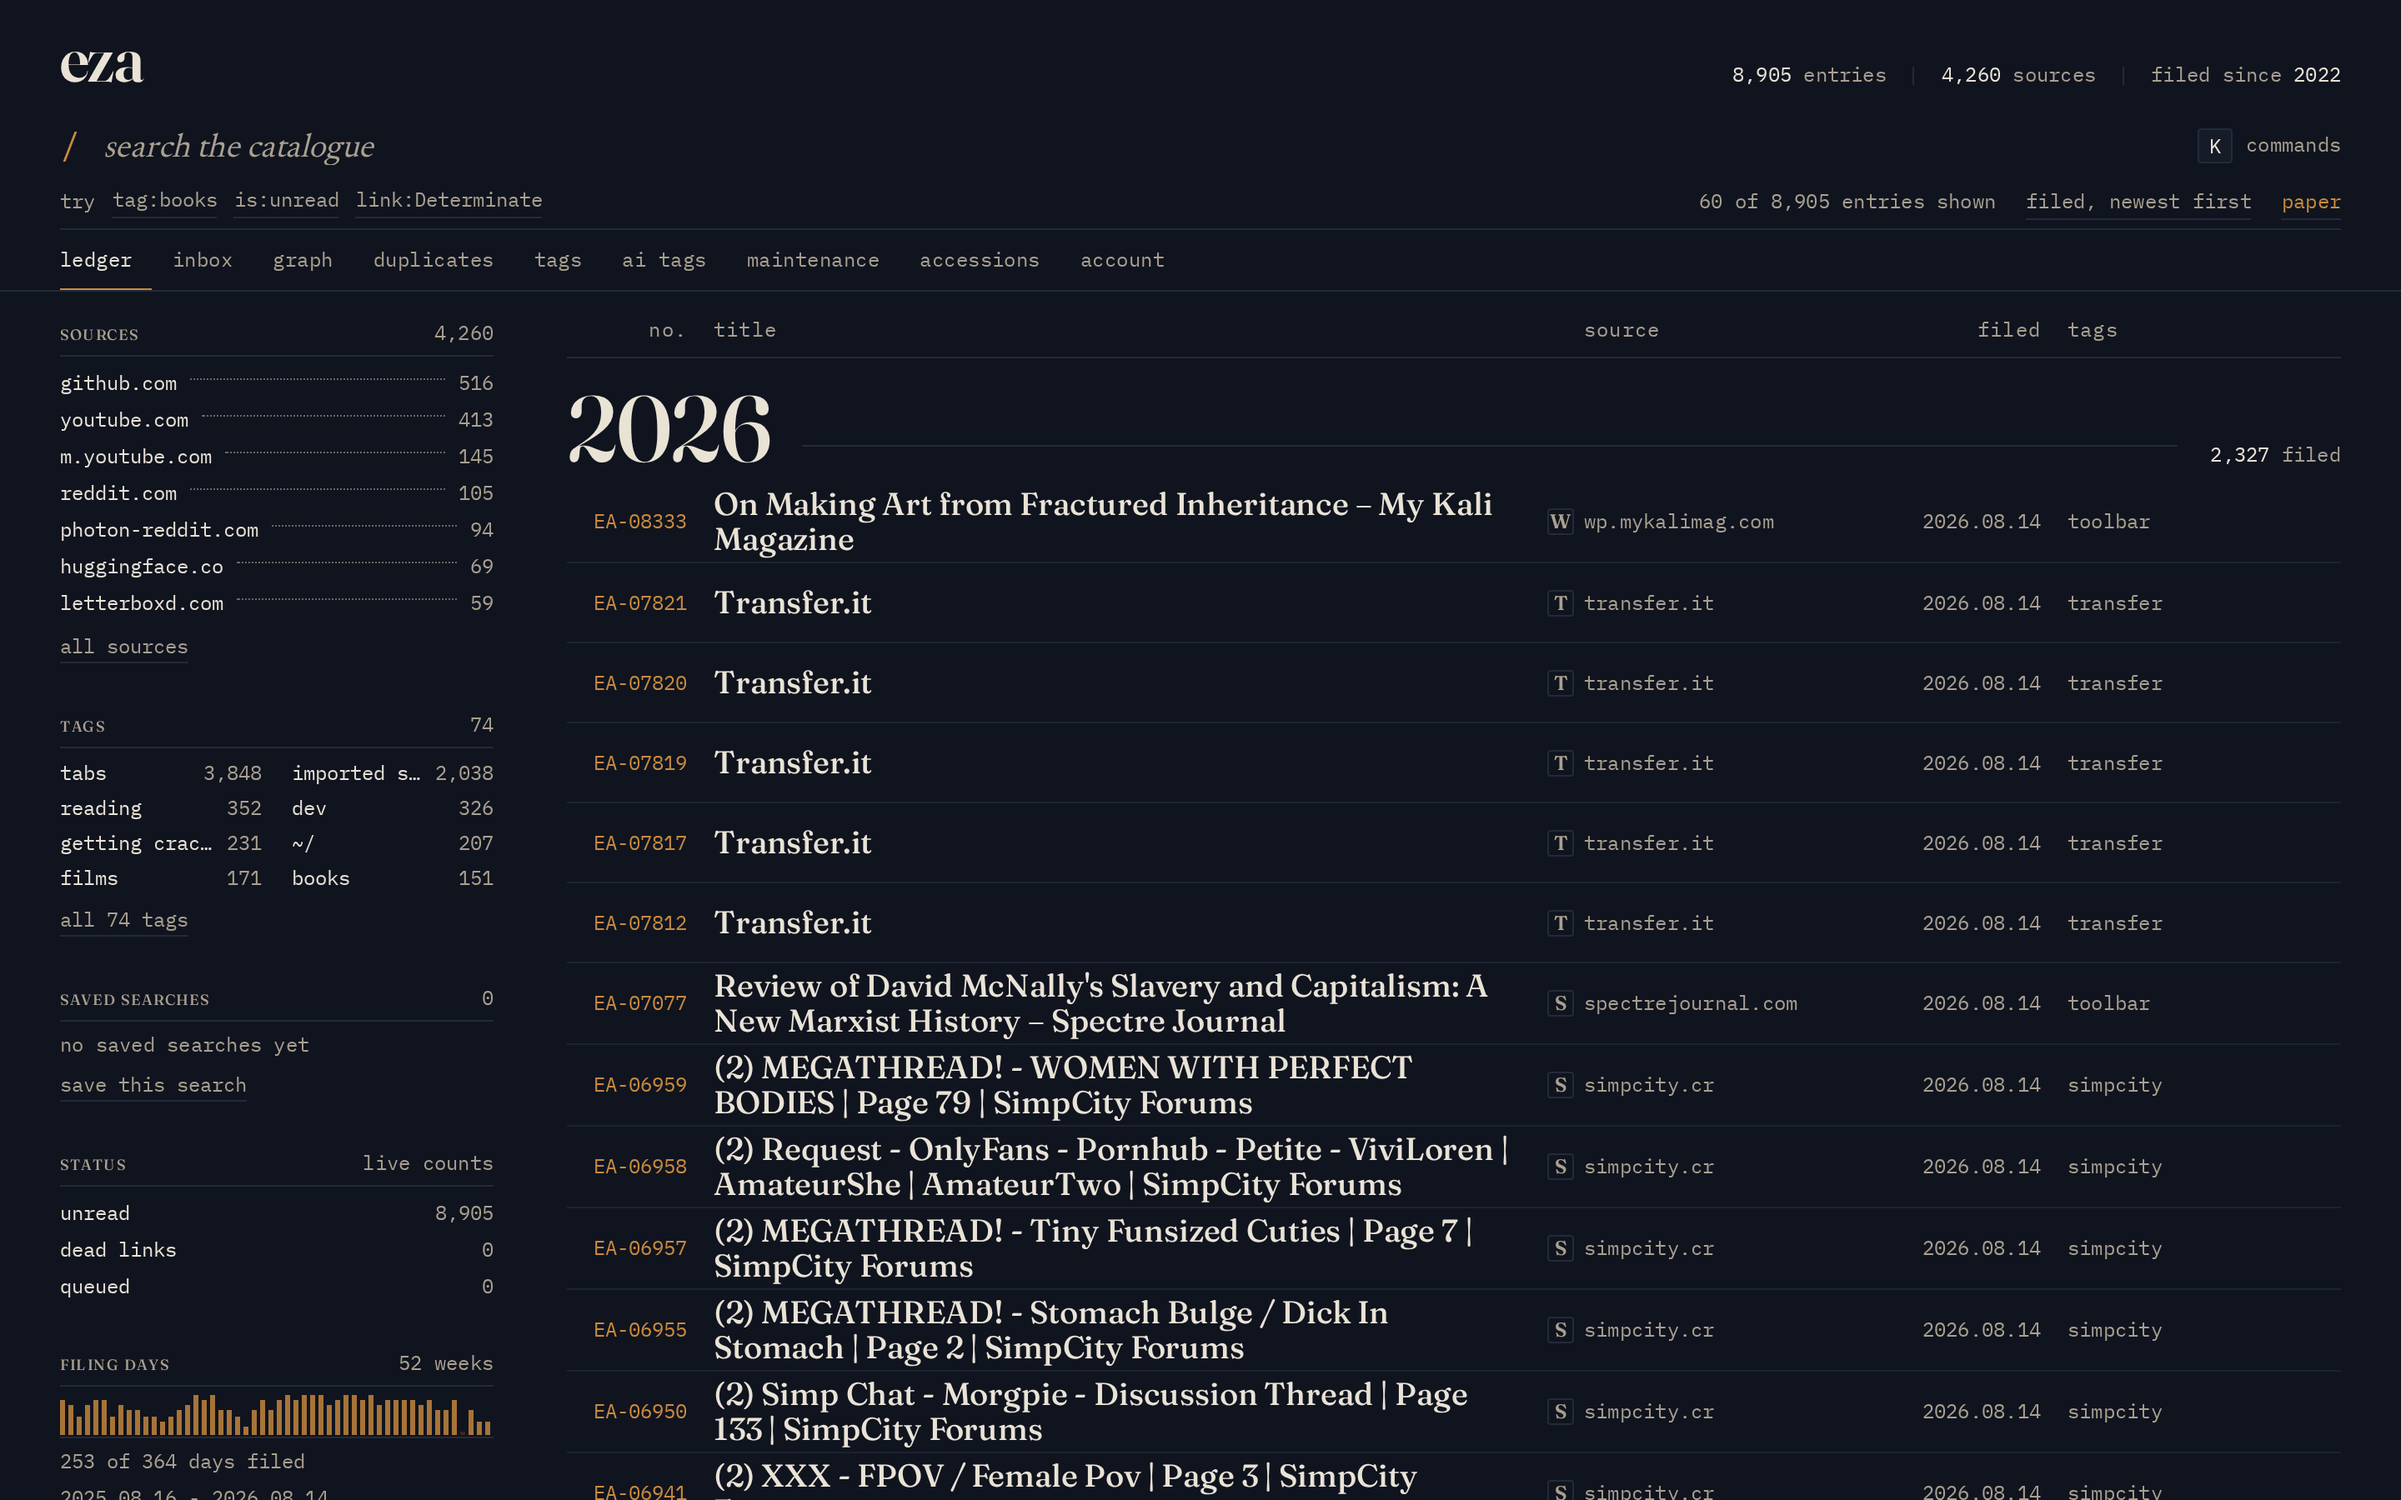
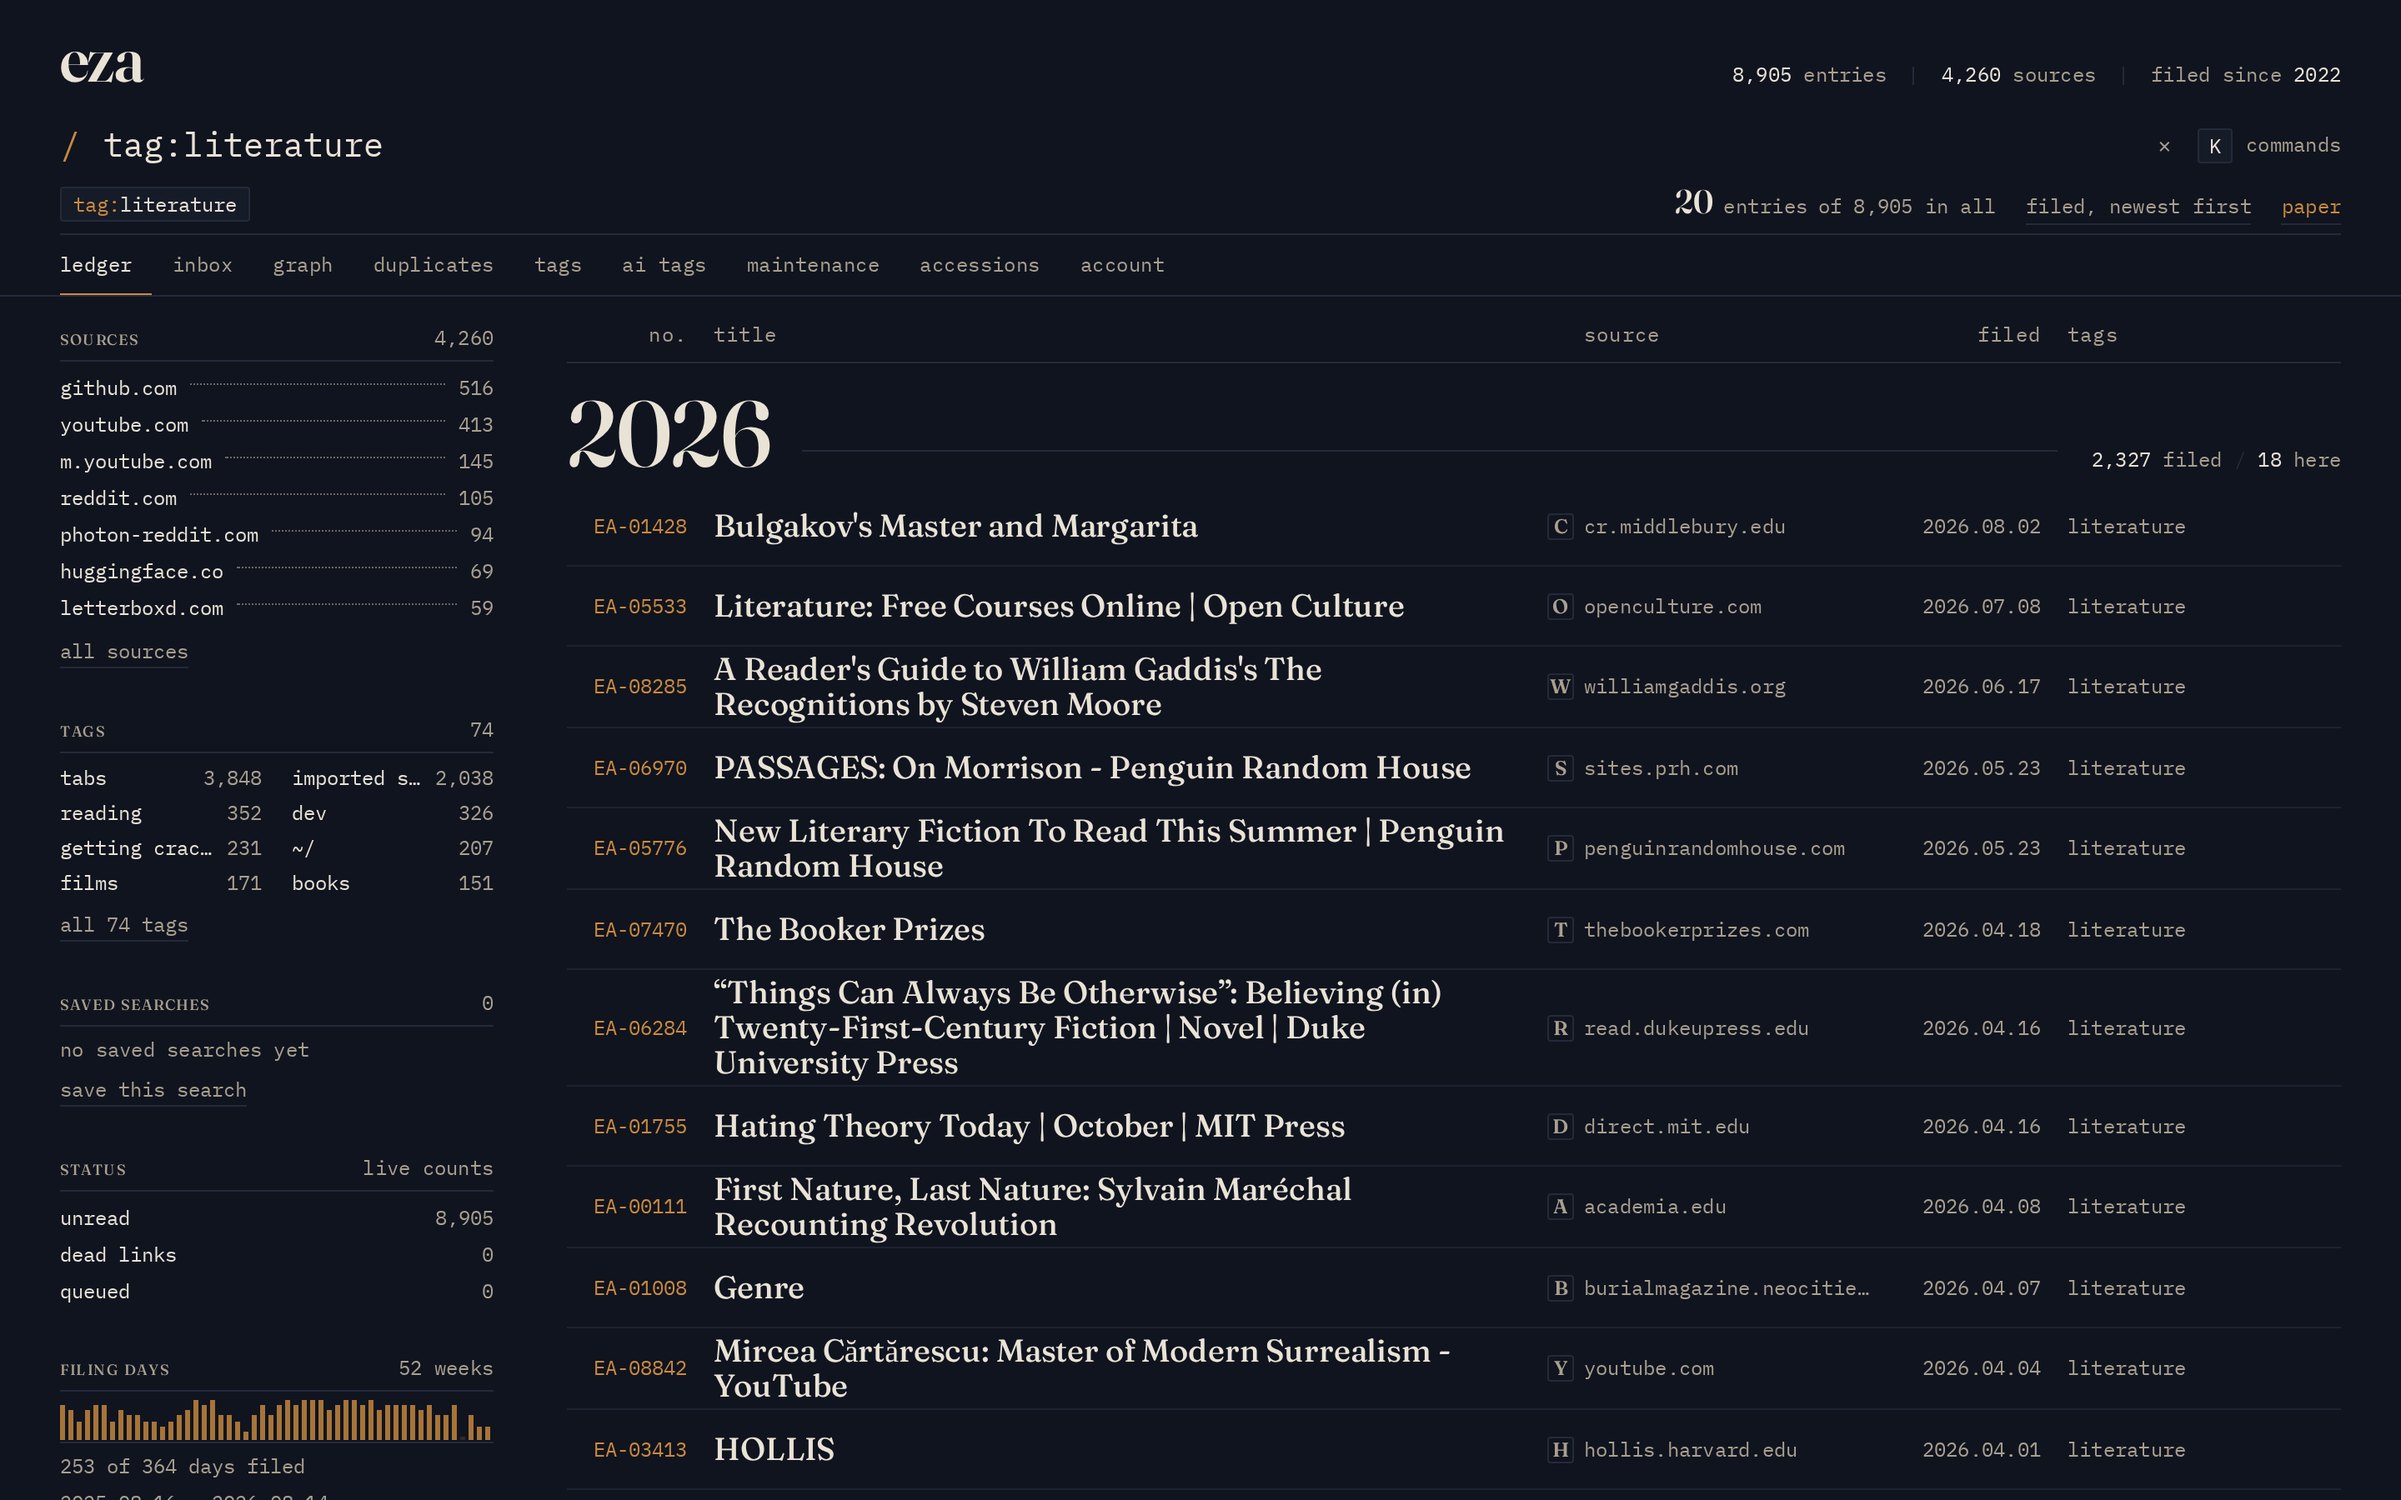
Keep public screenshots off private shelves

diff --git a/docs/screenshots/README.md b/docs/screenshots/README.md
@@ -1,21 +1,23 @@
 # Screenshots
 
 The screenshots come from the real server and the built WASM client. The
-library is the 2026-08-14 Netscape export (9,457 anchors, 8,988 records,
-4,283 sources), imported through the public API; it is not a mockup and no
+library is the 2026-08-14 Netscape export (9,457 anchors, 8,905 records,
+4,260 sources), imported through the public API; it is not a mockup and no
 record is invented for the pictures.
 
-The set is seven PNGs at 1440x900 with a device pixel ratio of 2:
+The set is seven PNGs at 1440x900 with a device pixel ratio of 2; the
+accessions shot is cropped above the ranked-source list so private sources do
+not appear in the public image:
 
 | File | Screen |
 |---|---|
 | `library.png` | the ledger under a real `tag:literature` query, masthead counting the whole library |
 | `detail.png` | a bookmark record, its reading spread and its marks |
-| `accessions.png` | the printed index of the archive |
+| `accessions.png` | the printed index figures and filing days, without source names |
 | `palette.png` | the command palette over that filtered ledger |
 | `dark.png` | the same ledger in the reading-room theme |
 | `share.png` | a server-rendered read-only share page |
-| `login.png` | the passkey sign-in card, no session |
+| `login.png` | the password sign-in card, no session |
 
 ## Capture a new set
 
@@ -42,21 +44,30 @@ The set is seven PNGs at 1440x900 with a device pixel ratio of 2:
 
    The committed ledger shots use `EZA_SHOT_QUERY="tag:literature"`: the
    newest rows in the real export are forum and video saves, so a query gives
-   a representative slice while the masthead still counts 8,988 entries.
+   a representative slice while the masthead still counts 8,905 entries.
 
 3. Look at the seven PNGs before committing them.
 
+   `EZA_FEATURE_ID` selects the record used for the detail and share shots;
+   the default `7` is the structure-packing article in this export. Enrich it
+   first if a fresh scratch database has no extracted text:
+
+   ```
+   EZA_DATA_DIR=.eza-scratch-shots EZA_DB=.eza-scratch-shots/eza.db \
+     cabal run eza-bookmarks -- enrich --id 7
+   ```
+
 ## What the script seeds
 
-The script claims the instance with a virtual WebAuthn authenticator and then
+The script creates the scratch account with a username and password, then
 POSTs `bookmarks_14_08_2026.html` as multipart form data to
 `/api/v1/import`. When the export is missing it falls back to a 14-bookmark
 demo set.
 
-The detail shot uses record `EA-08987` ("Dynamic Arrays in Arenas") and the
-real enrichment output. It waits for extraction, then adds a note and three
-highlights through the public API so the reading spread shows the design's
-marks. An explicit `EZA_SEED_READER=1` enables the old fixture-seeding escape
+The detail shot uses record `EA-00007` ("The Lost Art of Structure Packing")
+and its real enrichment output. It waits for extraction, then adds a note and
+three highlights through the public API so the reading spread shows the
+design's marks. An explicit `EZA_SEED_READER=1` enables the old fixture-seeding escape
 hatch for a demo only; it is off by default and must not be used for the
 checked-in reference screenshots. `EZA_SHOT_QUERY` narrows the ledger shots to
 a query if a representative slice is wanted.
